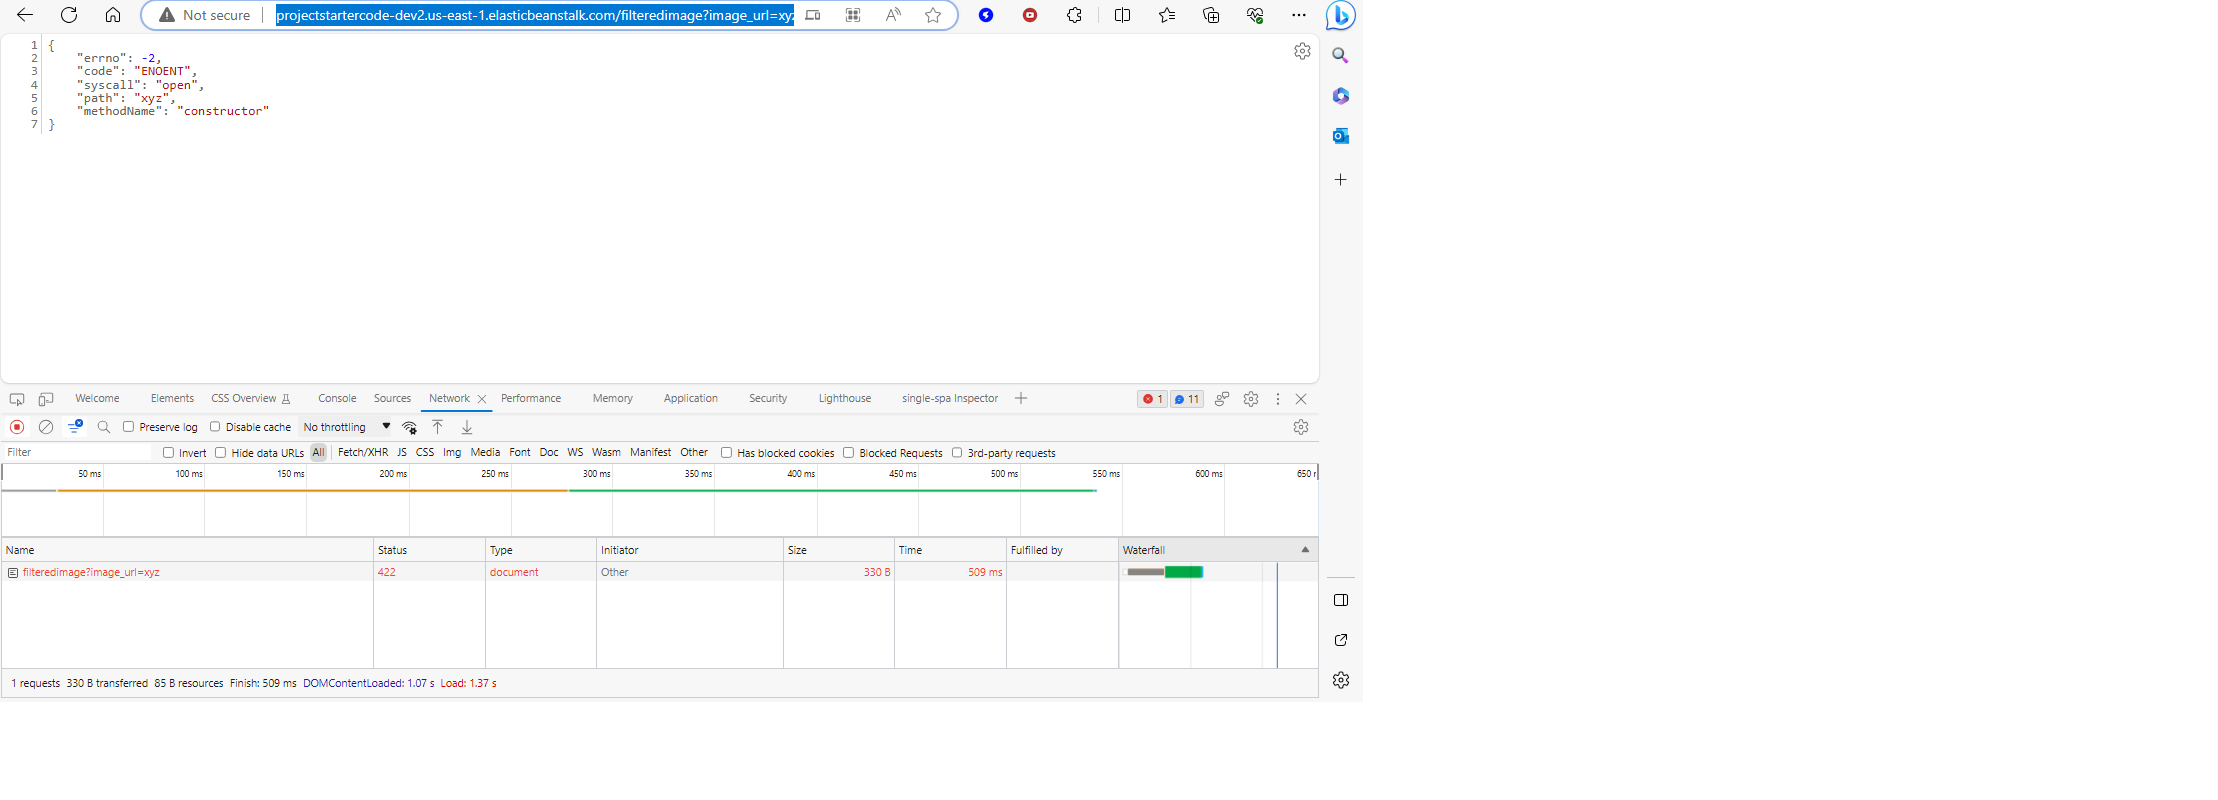
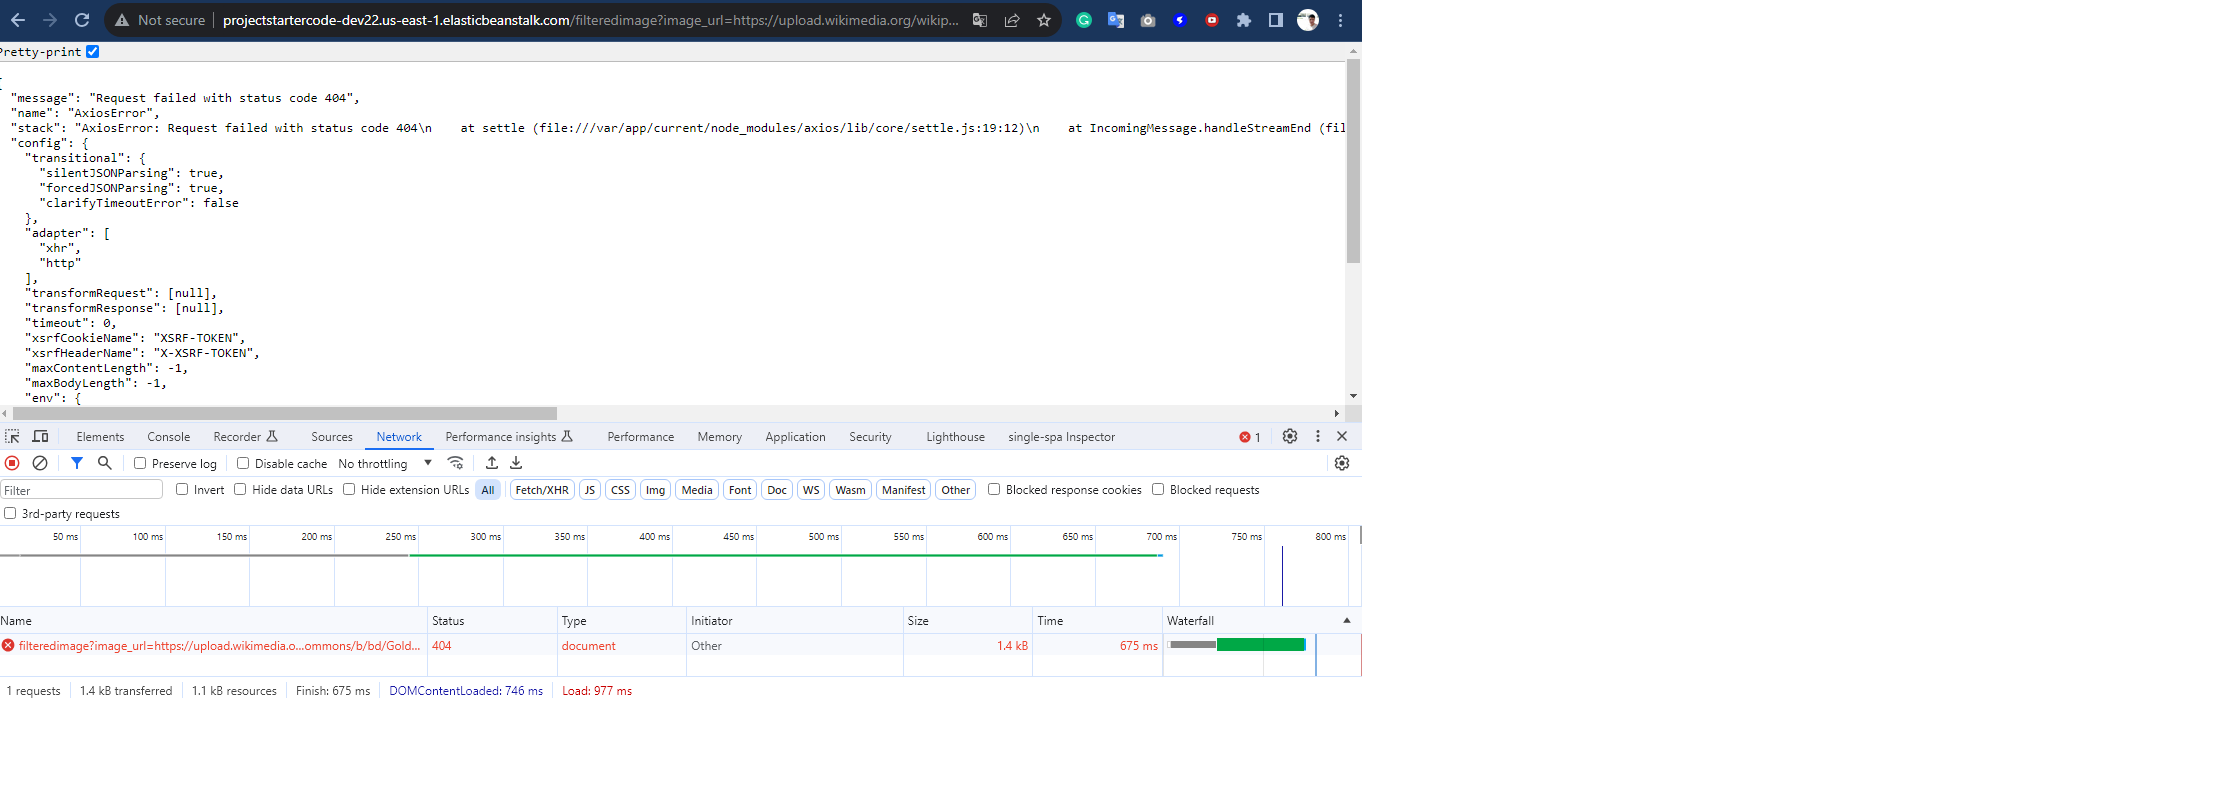
Re-submit project followed the reviewer note.

diff --git a/project starter code/util/util.js b/project starter code/util/util.js
@@ -1,6 +1,6 @@
-import fs from "fs";
-import Jimp from "jimp";
-
+import axios from 'axios';
+import fs from 'fs';
+import Jimp from 'jimp';
 
 // filterImageFromURL
 // helper function to download, filter, and save the filtered image locally
@@ -9,12 +9,15 @@ import Jimp from "jimp";
 //    inputURL: string - a publicly accessible url to an image file
 // RETURNS
 //    an absolute path to a filtered image locally saved file
- export async function filterImageFromURL(inputURL) {
+export async function filterImageFromURL(inputURL) {
   return new Promise(async (resolve, reject) => {
     try {
-      const photo = await Jimp.read(inputURL);
+      const photoBuffer = await axios.get(inputURL, {
+        responseType: 'arraybuffer',
+      });
+      const photo = await Jimp.read(Buffer.from(photoBuffer?.data, 'binary'));
       const outpath =
-        "/tmp/filtered." + Math.floor(Math.random() * 2000) + ".jpg";
+        '/tmp/filtered.' + Math.floor(Math.random() * 2000) + '.jpg';
       await photo
         .resize(256, 256) // resize
         .quality(60) // set JPEG quality
@@ -33,7 +36,7 @@ import Jimp from "jimp";
 // useful to cleanup after tasks
 // INPUTS
 //    files: Array<string> an array of absolute paths to files
- export async function deleteLocalFiles(files) {
+export async function deleteLocalFiles(files) {
   for (let file of files) {
     fs.unlinkSync(file);
   }

diff --git a/project starter code/server.js b/project starter code/server.js
@@ -36,7 +36,7 @@ app.get('/filteredimage/', async (req, res) => {
       res.sendFile(result);
       res.on('finish', () => deleteLocalFiles([result]));
     })
-    .catch((err) => res.status(422).send(err));
+    .catch((err) => res.status(404).send(err));
 });
 //! END @TODO1
 
